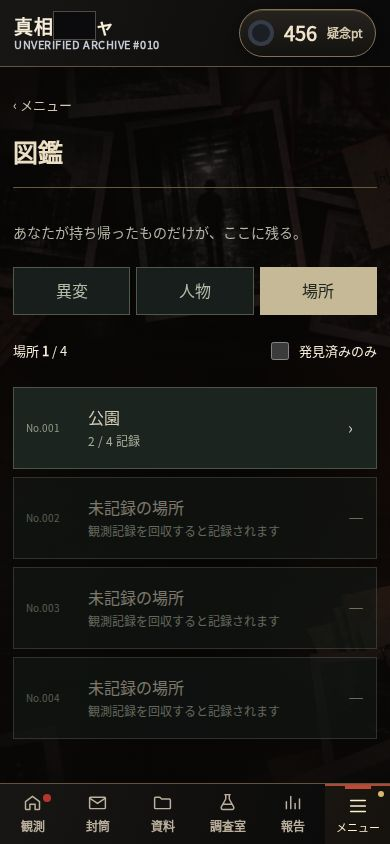
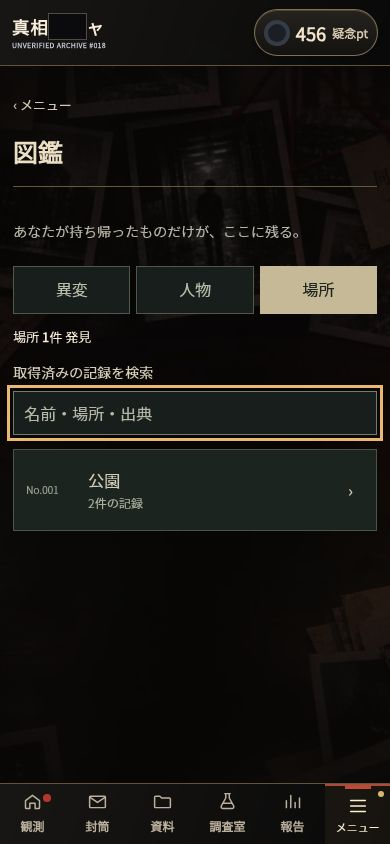
Search acquired catalog records by name and source (#213)

diff --git a/assets/encyclopedia.js b/assets/encyclopedia.js
@@ -1,5 +1,5 @@
 /* Catalogs are projections of acquired records: browsing never grants progress. */
-let encyclopediaTab='anomalies',encyclopediaFilter='all';
+let encyclopediaTab='anomalies',encyclopediaQuery='';
 const CATALOG_TABS={anomalies:'異変',people:'人物',places:'場所'};
 function catalogTabs(){const t={...CATALOG_TABS};if(LegendModel.ids.some(id=>LegendModel.count(S.levels,id)===3&&legendLayerStatus(id)?.compared))t.confidential='機密';return t;}
 function catalogObservationHistory(mode,rarity){
@@ -22,9 +22,33 @@ function catalogEntries(tab){
  return observed.concat(inc,alternate).map((e,i)=>({...e,number:i+1}));
 }
 function openEncyclopedia(tab=encyclopediaTab){
- const tabs=catalogTabs();if(!Object.hasOwn(tabs,tab))tab='anomalies';encyclopediaTab=tab;
- const entries=catalogEntries(tab),known=entries.filter(e=>e.known).length,shown=encyclopediaFilter==='missing'?[]:entries.filter(e=>e.known);
- openMenuPage('図鑑',menuBack()+`<section class="catalog"><p class="catalog-intro">あなたが持ち帰ったものだけが、ここに残る。</p><div class="catalog-tabs" role="group" aria-label="図鑑の分類">${Object.entries(tabs).map(([id,label])=>`<button data-catalog-tab="${id}" aria-pressed="${id===tab}">${label}</button>`).join('')}</div><div class="catalog-summary"><p>${tabs[tab]} <b>${known}</b>件 発見</p><label><input type="checkbox" data-catalog-filter ${encyclopediaFilter==='known'?'checked':''}> 発見済みのみ</label><label><input type="checkbox" data-catalog-missing ${encyclopediaFilter==='missing'?'checked':''}> 未発見のみ</label></div>${encyclopediaFilter==='missing'?`<p class="catalog-intro">未発見の記録は一覧に表示されません。${tab==='anomalies'?'観測と封筒調査':tab==='people'?'課内での会話':'各地点の観測'}から探してください。</p>`:''}<div class="catalog-list">${shown.map(e=>`<button class="catalog-entry ${e.known?'':'catalog-unknown'}" data-catalog-entry="${e.id}" ${e.known?'':'disabled'}><small>No.${String(e.number).padStart(3,'0')}</small><span><b>${escapeHTML(e.title)}</b><small>${escapeHTML(e.sub)}</small></span><span aria-hidden="true">${e.known?'›':'―'}</span></button>`).join('')||'<p class="menu-empty">ここには発見済みの記録だけが残ります。観測や課内での会話を進めてください。</p>'}</div></section>`);
+ const tabs=catalogTabs();if(!Object.hasOwn(tabs,tab))tab='anomalies';if(tab!==encyclopediaTab)encyclopediaQuery='';encyclopediaTab=tab;
+ const shown=catalogEntries(tab).filter(e=>e.known);
+ openMenuPage('図鑑',menuBack()+`<section class="catalog"><p class="catalog-intro">あなたが持ち帰ったものだけが、ここに残る。</p><div class="catalog-tabs" role="group" aria-label="図鑑の分類">${Object.entries(tabs).map(([id,label])=>`<button data-catalog-tab="${id}" aria-pressed="${id===tab}">${label}</button>`).join('')}</div><div class="catalog-summary"><p>${tabs[tab]} <b>${shown.length}</b>件 発見</p><p data-catalog-status role="status"></p></div><label class="catalog-search" for="catalog-search">取得済みの記録を検索</label><div class="catalog-search-fields"><input id="catalog-search" type="search" placeholder="名前・場所・出典" autocomplete="off" aria-controls="catalog-results"><button data-catalog-clear aria-label="検索をクリア" hidden>クリア</button></div><div id="catalog-results" class="catalog-list">${shown.map(e=>`<button class="catalog-entry" data-catalog-entry="${e.id}"><small>No.${String(e.number).padStart(3,'0')}</small><span><b>${escapeHTML(e.title)}</b><small>${escapeHTML(e.sub)}</small></span><span aria-hidden="true">›</span></button>`).join('')||'<p class="menu-empty" data-catalog-empty>ここには発見済みの記録だけが残ります。観測や課内での会話を進めてください。</p>'}<p class="menu-empty" data-catalog-no-results hidden>一致する取得済みの記録はありません。検索語を変えるか、クリアしてください。</p></div></section>`);
+ const search=document.getElementById('catalog-search');search.value=encyclopediaQuery;
+ search.addEventListener('keydown',e=>{
+  if(e.key!=='Escape')return;
+  if(e.isComposing){e.stopPropagation();return;}
+  if(search.value){e.preventDefault();e.stopPropagation();clearCatalogSearch();}
+ });
+ filterCatalog(encyclopediaQuery);
+}
+function filterCatalog(query){
+ encyclopediaQuery=query;
+ const catalog=document.querySelector('.catalog');if(!catalog)return;
+ const term=query.normalize('NFKC').trim().toLowerCase();let matches=0;
+ // Filter only the acquired entries already rendered; never search the full catalog.
+ catalog.querySelectorAll('[data-catalog-entry]').forEach(entry=>{
+  entry.hidden=!!term&&!entry.querySelector('span').textContent.normalize('NFKC').toLowerCase().includes(term);
+  if(!entry.hidden)matches++;
+ });
+ catalog.querySelector('[data-catalog-status]').textContent=term?`${matches}件が一致`:'';
+ catalog.querySelector('[data-catalog-no-results]').hidden=!term||matches>0;
+ const empty=catalog.querySelector('[data-catalog-empty]');if(empty)empty.hidden=!!term;
+ catalog.querySelector('[data-catalog-clear]').hidden=!query;
+}
+function clearCatalogSearch(){
+ const search=document.getElementById('catalog-search');search.value='';filterCatalog('');search.focus();
 }
 // Re-readable history of what this colleague actually said. Nothing unheard is rendered.
 function catalogTestimonyLog(id,m,o){
@@ -175,4 +199,6 @@ document.addEventListener('click',e=>{
  if(b.dataset.catalogIncident){hideSheet();return openIncursionRecords(Number(b.dataset.catalogIncident));}
  if(b.dataset.catalogTalk&&watchContacts()[b.dataset.catalogTalk]){hideSheet();observationColleagues();observationConversation(b.dataset.catalogTalk);}
 });
-document.addEventListener('change',e=>{if(e.target.matches('[data-catalog-filter],[data-catalog-missing]')){encyclopediaFilter=e.target.checked?(e.target.matches('[data-catalog-missing]')?'missing':'known'):'all';openEncyclopedia();}});
+document.addEventListener('input',e=>{if(e.target.id==='catalog-search'&&!e.isComposing)filterCatalog(e.target.value);});
+document.addEventListener('compositionend',e=>{if(e.target.id==='catalog-search')filterCatalog(e.target.value);});
+document.addEventListener('click',e=>{if(e.target.closest('[data-catalog-clear]'))clearCatalogSearch();});

diff --git a/assets/account-catalog.css b/assets/account-catalog.css
@@ -5,9 +5,11 @@
 .account-card button,.account-danger button,.catalog-detail button{display:block;width:100%;margin-top:12px;min-height:46px;white-space:normal}
 .account-danger{border-color:#78554b}.account-danger button{color:#e3b3a4}#account-status{color:#c8ba8d;font-size:14px;min-height:1.8em}
 .account-confirm{display:flex;align-items:center;gap:10px;min-height:48px;margin:16px 0}.account-confirm input{width:22px;height:22px;flex:none}
+.menu-scene:has(.catalog){grid-template-columns:minmax(0,1fr)}
 .catalog-intro{font-size:14px;color:#b4b5a7;line-height:1.8}.catalog-tabs{display:grid;grid-template-columns:repeat(3,minmax(0,1fr));gap:6px;margin-top:22px}
 .catalog-tabs button{min-height:48px;background:#171e1b;border:1px solid #52574c;color:#b7bba9;font:inherit}.catalog-tabs button[aria-pressed=true]{background:#c6b998;color:#20271f;border-color:#c6b998}
-.catalog-summary{display:flex;justify-content:space-between;align-items:center;gap:10px;font-size:13px;margin:12px 0}.catalog-summary p{white-space:nowrap}.catalog-summary label{display:flex;align-items:center;gap:7px;min-height:44px}.catalog-summary input{width:18px;height:18px}
+.catalog-summary{display:flex;justify-content:space-between;align-items:center;gap:10px;font-size:13px;margin:12px 0}.catalog-summary p{margin:0;white-space:nowrap}
+.catalog-search{display:block;font-size:14px;color:#d3ccb8}.catalog-search-fields{display:flex;gap:8px;margin:7px 0 14px}.catalog-search-fields input{min-width:0;flex:1;min-height:44px;padding:9px 10px;border:1px solid #747b6d;background:#171e1b;color:#eee6d4;font:16px/1.5 var(--f-body)}.catalog-search-fields input::placeholder{color:#b4b5a7}.catalog-search-fields button{min-height:44px;min-width:64px;padding:8px;border:1px solid #747b6d;background:#1c241f;color:#d3ccb8;font:14px var(--f-body)}.catalog [hidden]{display:none}
 .catalog-list{display:grid;gap:8px}.catalog-entry{display:grid;grid-template-columns:52px minmax(0,1fr) 16px;gap:10px;align-items:center;width:100%;min-height:82px;padding:12px;text-align:left;border:1px solid #4c5349;background:#1c241f;color:#d3ccb8;font:inherit}.catalog-entry>small{font-size:10px;color:#949e8a}.catalog-entry b{display:block;font-size:16px;line-height:1.6;font-weight:500}.catalog-entry span small{display:block;font-size:12px;color:#a5af9b;line-height:1.6}.catalog-unknown{opacity:.58;background:#151a17}.catalog-detail{line-height:1.8}.catalog-detail h2{margin:8px 0}.catalog-detail h3{font-size:15px;margin-top:24px}.catalog-detail blockquote{margin:12px 0;padding:12px;border-left:2px solid #797e66;color:#bfc6b3}.catalog-detail .watch-speaker img{width:75px;height:100px;object-fit:cover}
 @media(max-width:360px){.account-card,.account-danger{padding:15px}.catalog-entry{padding:10px;grid-template-columns:44px minmax(0,1fr) 10px;gap:7px}.catalog-entry b{font-size:15px}}
 

diff --git a/docs/ACCOUNT-CATALOG.md b/docs/ACCOUNT-CATALOG.md
@@ -16,7 +16,9 @@
 
 メニューと資料→観測から開く。異変112種（観測12＋封筒100）、人物3名、場所4か所。平常の4記録は場所図鑑の比較資料に含む。
 
-図鑑は既存保存データの表示であり別の発見カウンターを増やさない。異変は入手、人物は面識、場所は記録の回収で開く。未発見の名前・画像はDOMへ出さず、発見済みだけのフィルター、件数、詳細を提供。人物から会話と関連記録、場所から観測記録と入手済みの噂へ進める。閲覧だけではpt・発見・証言の獲得が増えない。
+図鑑は既存保存データの表示であり別の発見カウンターを増やさない。異変は入手、人物は面識、場所は記録の回収で開く。未発見の名前・画像はDOMへ出さず、発見済みの件数、検索、詳細を提供。人物から会話と関連記録、場所から観測記録と入手済みの噂へ進める。閲覧だけではpt・発見・証言の獲得が増えない。
+
+分類内の取得済み一覧を名前・場所・出典から部分一致で検索できる。全角・半角と英字の大小を揃えて照合し、日本語変換の確定後に件数を通知する。入力中はフォーカスを移さず、一致しない場合は短い説明とクリア操作を提供する。検索欄でEscapeを押すと、検索語がある場合は先に解除する。変換中のEscapeは日本語入力の取消しに使う。検索語は画面内だけの一時状態で、分類を変えると解除する。検索対象は表示可能な取得済み項目だけであり、未取得の資料・人物・機密区分や全件数を検索結果から推測できる表示は追加しない。
 
 ## 公開前の必須作業
 
@@ -32,7 +34,7 @@ Authenticationの匿名・Googleプロバイダーと公開ホストの承認済
 
 ## 検証範囲
 
-- `tests/account-catalog.cjs`: FirebaseアダプターでGoogleリンク・キャンセル・既存アカウント読込、保存してログアウト、失敗時保持、再認証キャンセル、原子的な削除失敗、認証削除失敗後の再開、図鑑の未発見秘匿・取得済み導線・状態非増加、320/390/844px。
+- `tests/account-catalog.cjs`: FirebaseアダプターでGoogleリンク・キャンセル・既存アカウント読込、保存してログアウト、失敗時保持、再認証キャンセル、原子的な削除失敗、認証削除失敗後の再開、図鑑の取得済み検索・日本語変換・検索解除・未発見秘匿・取得済み導線・状態非増加、320/390/844px。
 - `tests/cloud-save.cjs`: CAS競合・削除済み印・削除再実行・復活拒否。
 - `tests/firestore-rules.cjs`: エミュレーターで本人以外の読書削除拒否、削除トランザクション、削除済み印の書換え/削除と集計再作成拒否。
 - 本物のGoogle認証画面と本番Firebaseでの削除はテスト用アカウントで別途確認が必要。実ユーザーのアカウントを動作確認のために削除しない。
